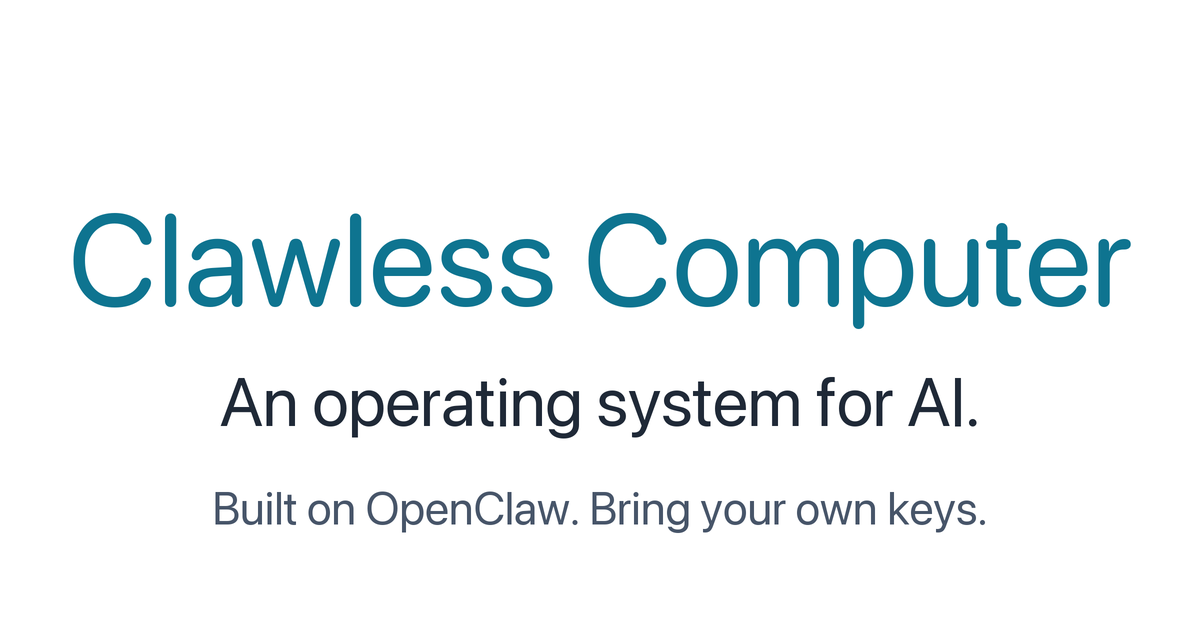
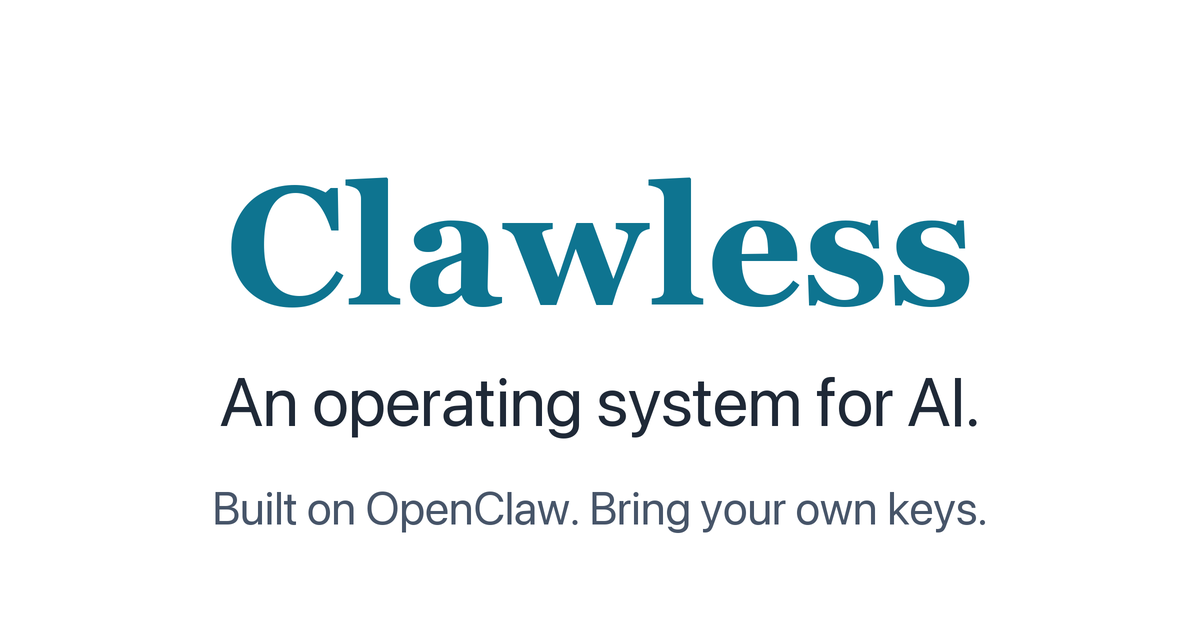
og: re-do Clawless OG to match RBJ Global typography (Georgia Bold 168px)
Founder feedback on the prior Clawless OG (c238df2): "Word clarity is
very thin. Your design should match the way you build RBJ Global. RBJ
Global is the parent, and the rest of them are siblings, so they
should have resemblances to RBJ Global."

The prior version used SF Pro Rounded at 130px (reduced from the
family-default 168px to fit the 16-character "Clawless Computer"
wordmark on one line). At 130px Georgia Bold or SF Rounded, the
stroke widths render proportionally thinner than RBJ Global's 168px
Georgia Bold treatment — which is what made the previous Clawless
OG read as "thin" next to RBJ Global's bold serif gravitas.

## Fix

- **Title shortened from "Clawless Computer" to "Clawless"**. The
  short-form brand name fits the 1200-wide canvas at the
  family-default 168px Georgia Bold, matching RBJ Global's wordmark
  stroke thickness exactly. The "Computer" product suffix is
  implied by the clawless.ai URL surface (LinkedIn always shows the
  domain alongside the OG card) and reinforced by the unchanged
  tagline "An operating system for AI."
- **Font swapped from SF Pro Rounded to Georgia Bold** for the
  wordmark. Tagline + sub-tagline stay in SF Pro Regular (family
  DNA text treatment).
- **Title size returns to 168px** (the family default established
  by whisprdesk-developer's 648056d).

## Family identity matrix (post-change)

| Product | Color | Font | Title size |
|---|---|---|---|
| RBJ Global (parent) | warm brown #6B4226 | Georgia Bold | 168px |
[…]

Changed region(s): [[0.0617, 0.2714, 0.9558, 0.5127]]

diff --git a/scripts/generate-og-image.py b/scripts/generate-og-image.py
@@ -53,7 +53,7 @@ DETAIL_COLOR = (71, 85, 105)   # slate-600 #475569
 # Fonts. SF Pro Rounded for the wordmark gives a friendlier feel than
 # stock SF Pro Display; matches whisprdesk's family treatment.
 SF_REGULAR = "/System/Library/Fonts/SFNS.ttf"
-SF_ROUNDED = "/System/Library/Fonts/SFNSRounded.ttf"
+GEORGIA_BOLD = "/Library/Fonts/Supplemental/Georgia Bold.ttf"
 
 
 def load_font(path: str, size: int) -> ImageFont.FreeTypeFont:
@@ -69,10 +69,18 @@ def main() -> None:
     img = Image.new("RGB", (RENDER_W, RENDER_H), BG)
     draw = ImageDraw.Draw(img)
 
-    # Clawless title is 16 chars ("Clawless Computer"), so the family-default
-    # 168px would overflow the 1200-wide canvas. Reducing to 130px keeps the
-    # two-word product name on a single line with visible left/right margin.
-    title_font = load_font(SF_ROUNDED, 130 * SCALE)
+    # Georgia Bold at 168px to match RBJ Global exactly. Founder
+    # feedback 2026-05-16: "Your design should match the way you build
+    # RBJ Global. RBJ Global is the parent, and the rest of them are
+    # siblings, so they should have resemblances." At 168px the stroke
+    # thickness matches RBJ Global's wordmark; at smaller sizes
+    # (previously 120px for "Clawless Computer") the strokes scaled
+    # down proportionally and the visual weight thinned. Title shortened
+    # to "Clawless" (the brand short form) so the family-default 168px
+    # fits the 1200-wide canvas; the "Computer" product suffix is
+    # implied by the clawless.ai URL surface and reinforced by the
+    # tagline "An operating system for AI."
+    title_font = load_font(GEORGIA_BOLD, 168 * SCALE)
     tagline_font = load_font(SF_REGULAR, 68 * SCALE)
     detail_font = load_font(SF_REGULAR, 46 * SCALE)
 
@@ -80,12 +88,11 @@ def main() -> None:
     # Sub-tagline = positioning statement. Keep each line short enough
     # that it survives LinkedIn's 1.91:1 crop (~8% bottom can clip on
     # narrow feed cards without losing the primary tagline).
-    title = "Clawless Computer"
+    title = "Clawless"
     tagline = "An operating system for AI."
     detail = "Built on OpenClaw. Bring your own keys."
 
-    # Title is shorter at 130px so it sits a bit lower for visual centering.
-    title_y = 180 * SCALE
+    title_y = 150 * SCALE
     tagline_y = 360 * SCALE
     detail_y = 480 * SCALE
 